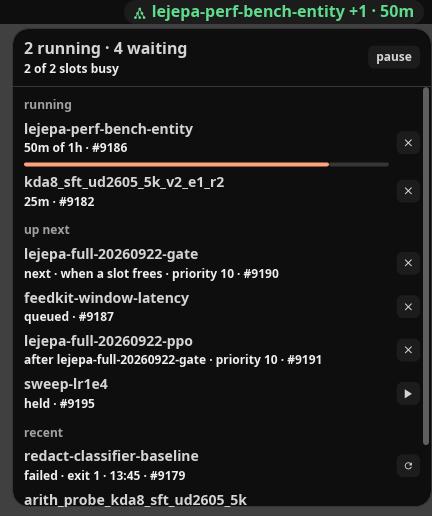
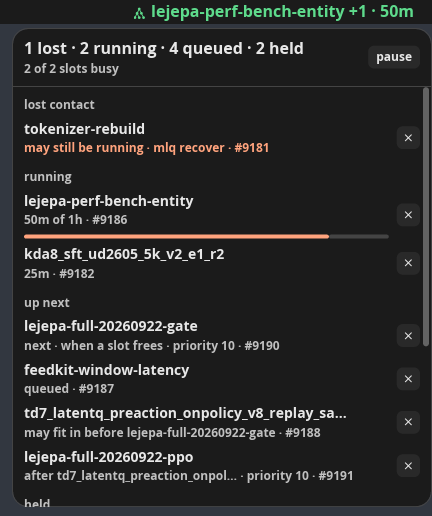
feat(mlq): separate held jobs and say what a lost run needs
Held jobs start only when released, so they get their own section and
header count instead of padding "up next" and the waiting total.

mlqd's needs_attention state was shown as "needs attention", which says
neither what went wrong nor what to do. It is now "lost contact": the row
says the run may still be alive and names mlq recover, in peach.

A cancelled waiting job says only that, and another job's name inside a
detail line is elided sooner so the line stays on one row.

diff --git a/src/bin/cosmicbar-mlq.rs b/src/bin/cosmicbar-mlq.rs
@@ -32,6 +32,9 @@ const NAME_LIMIT: usize = 26;
 /// A job's name in the popup. Longer than the cell's: the popup has the room,
 /// and two sweeps differing only in their last token are why the name exists.
 const ROW_NAME_LIMIT: usize = 44;
+/// Another job's name inside a detail line (`after sweep-lr1e4`), which also
+/// has to fit the job's own priority and id on one line.
+const REF_NAME_LIMIT: usize = 28;
 const REASON_LIMIT: usize = 48;
 const MIN_TICK_MS: i64 = 50;
 /// How long a cancel stays armed for the press that confirms it.
@@ -283,7 +286,7 @@ fn wait(job: &Value, names: &HashMap<i64, &str>) -> Wait {
     let named = |id: &i64| {
         names
             .get(id)
-            .map_or_else(|| format!("#{id}"), |name| elide(name, ROW_NAME_LIMIT))
+            .map_or_else(|| format!("#{id}"), |name| elide(name, REF_NAME_LIMIT))
     };
     let other = ids
         .first()
@@ -479,18 +482,22 @@ impl Extension {
     }
 
     /// What the queue is doing, and the verb for all of it.
-    fn header(&self, status: &Value, stuck: usize, running: usize, waiting: usize) -> Value {
+    ///
+    /// Held jobs are counted apart from queued ones: a held job starts only
+    /// when someone releases it, so it is not part of what is coming.
+    fn header(&self, status: &Value, [lost, running, queued, held]: [usize; 4]) -> Value {
         let paused = status["paused"].as_bool().unwrap_or(false);
-        let mut title = Vec::new();
-        if stuck > 0 {
-            title.push(format!("{stuck} stuck"));
-        }
-        if running > 0 {
-            title.push(format!("{running} running"));
-        }
-        if waiting > 0 {
-            title.push(format!("{waiting} waiting"));
-        }
+        let title: Vec<String> = [
+            // Short enough that all four counts still fit the title's one line.
+            (lost, "lost"),
+            (running, "running"),
+            (queued, "queued"),
+            (held, "held"),
+        ]
+        .into_iter()
+        .filter(|(count, _)| *count > 0)
+        .map(|(count, word)| format!("{count} {word}"))
+        .collect();
         let title = match title.is_empty() {
             true => "queue empty".to_owned(),
             false => title.join(" · "),
@@ -554,21 +561,32 @@ impl Extension {
     }
 
     fn waiting_row(&self, job: &Value, wait: &Wait) -> Value {
-        let mut detail = wait.text.clone();
-        if priority(job) != 0 {
-            detail.push_str(&format!(" · priority {}", priority(job)));
-        }
+        let mut detail = Vec::new();
         if job["cancelRequested"].as_bool().unwrap_or(false) {
-            detail.push_str(" · cancelling");
+            // What it was waiting for stopped mattering when it was cancelled.
+            detail.push("cancelling".to_owned());
+        } else {
+            // Under the `held` label the word would repeat on every row.
+            if wait.standing != Standing::Held {
+                detail.push(wait.text.clone());
+            }
+            if priority(job) != 0 {
+                detail.push(format!("priority {}", priority(job)));
+            }
         }
-        detail.push_str(&format!(" · #{}", job_id(job)));
+        detail.push(format!("#{}", job_id(job)));
         let action = match wait.standing {
             Standing::Held => {
                 json!({"id": format!("release:{}", job_id(job)), "glyph": ICON_RELEASE})
             }
             _ => self.cancel(job),
         };
-        row(elide(name(job), ROW_NAME_LIMIT), detail, None, Some(action))
+        row(
+            elide(name(job), ROW_NAME_LIMIT),
+            detail.join(" · "),
+            None,
+            Some(action),
+        )
     }
 
     fn recent_row(job: &Value, now: i64) -> Value {
@@ -620,7 +638,8 @@ impl Extension {
         active.sort_by_key(|job| std::cmp::Reverse(self.elapsed_ms(job, now)));
         // The order the scheduler will take them in, as far as the snapshot
         // says: the job it is draining for, then by priority and readiness,
-        // then what waits on others, then what is held.
+        // then what waits on others. Held jobs sort last and get a section
+        // of their own: nothing but a release will start them.
         waiting.sort_by_key(|(wait, job)| {
             (
                 wait.standing,
@@ -629,6 +648,8 @@ impl Extension {
                 job_id(job),
             )
         });
+        let queued = waiting.partition_point(|(wait, _)| wait.standing != Standing::Held);
+        let (upcoming, held) = waiting.split_at(queued);
         finished.sort_by_key(|(at, _)| std::cmp::Reverse(*at));
 
         let mut popup = Vec::new();
@@ -636,27 +657,32 @@ impl Extension {
             popup.push(json!({"text": {"text": error, "color": "red", "small": true}}));
         }
         if !attention.is_empty() {
-            popup.push(json!({"section": "needs attention"}));
+            // mlqd calls this `needs_attention`, which says neither what went
+            // wrong nor what to do: it lost the run's supervisor, cannot tell
+            // whether the command is still alive, and keeps its slot taken
+            // until `mlq recover` settles it.
+            popup.push(json!({"section": "lost contact"}));
             for job in &attention {
-                popup.push(row(
+                let mut item = row(
                     elide(name(job), ROW_NAME_LIMIT),
-                    format!("run mlq recover · #{}", job_id(job)),
+                    format!("may still be running · mlq recover · #{}", job_id(job)),
                     None,
                     Some(self.cancel(job)),
-                ));
+                );
+                // The one detail line that is a problem rather than a status.
+                item["row"]["lines"][1]["color"] = json!("peach");
+                popup.push(item);
             }
         }
         if !active.is_empty() {
             popup.push(json!({"section": "running"}));
             popup.extend(active.iter().map(|job| self.running_row(job, now)));
         }
-        if !waiting.is_empty() {
-            popup.push(json!({"section": "up next"}));
-            popup.extend(
-                waiting
-                    .iter()
-                    .map(|(wait, job)| self.waiting_row(job, wait)),
-            );
+        for (label, group) in [("up next", upcoming), ("held", held)] {
+            if !group.is_empty() {
+                popup.push(json!({"section": label}));
+                popup.extend(group.iter().map(|(wait, job)| self.waiting_row(job, wait)));
+            }
         }
         if !finished.is_empty() {
             popup.push(json!({"section": "recent"}));
@@ -670,7 +696,10 @@ impl Extension {
 
         json!({
             "cell": self.cell(status, now),
-            "header": self.header(status, attention.len(), active.len(), waiting.len()),
+            "header": self.header(
+                status,
+                [attention.len(), active.len(), upcoming.len(), held.len()],
+            ),
             "popup": popup,
         })
     }
@@ -1048,11 +1077,11 @@ mod tests {
             "jobs": [
                 {"id": 1, "name": "done", "state": "succeeded", "finishedAt": now - 1000},
                 {"id": 2, "name": "ancient", "state": "failed", "finishedAt": now - RECENT_WINDOW_MS - 1},
-                {"id": 3, "name": "held", "state": "held", "eligibility": "held"},
+                {"id": 3, "name": "parked", "state": "held", "eligibility": "held", "priority": 2},
                 {"id": 4, "name": "low", "state": "queued", "eligibility": "waiting_for_slot", "readySequence": 1},
                 {"id": 5, "name": "high", "state": "queued", "priority": 5, "eligibility": "waiting_for_slot", "readySequence": 2},
                 {"id": 6, "name": "train", "state": "running", "updatedAt": now - 60_000},
-                {"id": 7, "name": "stuck", "state": "needs_attention"},
+                {"id": 7, "name": "orphan", "state": "needs_attention"},
             ],
         });
         let mut extension = Extension {
@@ -1076,23 +1105,36 @@ mod tests {
         assert_eq!(
             order,
             [
-                "needs attention",
-                "stuck",
+                "lost contact",
+                "orphan",
                 "running",
                 "train",
                 "up next",
                 "high",
                 "low",
                 "held",
+                "parked",
                 "recent",
                 "done",
             ]
         );
         assert_eq!(
             frame["header"]["lines"][0]["text"],
-            "1 stuck · 1 running · 3 waiting"
+            "1 lost · 1 running · 2 queued · 1 held"
         );
+        let parked = &frame["popup"][8]["row"];
+        assert_eq!(parked["lines"][1]["text"], "priority 2 · #3");
+        assert_eq!(parked["action"]["id"], "release:3");
         assert_eq!(frame["header"]["lines"][1]["text"], "1 of 2 slots busy");
+    }
+
+    #[test]
+    fn a_cancelled_wait_says_only_that() {
+        let job = json!({"id": 4, "name": "low", "state": "queued", "priority": 3, "cancelRequested": true});
+        let wait = waiting_for("backfill_window_open: job 9190");
+        let row = Extension::default().waiting_row(&job, &wait);
+        assert_eq!(row["row"]["lines"][1]["text"], "cancelling · #4");
+        assert_eq!(row["row"]["action"]["enabled"], false);
     }
 
     #[test]

diff --git a/docs/extensions.md b/docs/extensions.md
@@ -151,18 +151,21 @@ It looks for `$XDG_RUNTIME_DIR/mlqueue/mlqd.sock`, falling back to
 No queue polling or external interpreter is involved.
 
 The cell shows the longest-running job and its elapsed time; an idle queue
-hides it. The popup's header counts running and waiting jobs over the slot use
+hides it. The popup's header counts running, queued and held jobs over the slot use
 or the reason nothing starts (paused, admission blocked), beside a pinned
 pause/resume button. Under it, sections list:
 
-- **needs attention**: jobs mlqd wants `mlq recover` for, counted as stuck in
-  the header.
+- **lost contact**: runs mlqd can no longer supervise (its `needs_attention`
+  state). The command may still be alive and its slot stays taken until
+  `mlq recover` settles it; the header counts these first.
 - **running**: longest first, with elapsed time and, for a job with a time
   limit, a meter that turns peach at 80%.
 - **up next**: in the order the scheduler will take them, each with what it
-  waits for in words (`next · when a slot frees`, `after <job>`, `held`) rather
-  than mlqd's eligibility code. A held job's button releases it rather than
-  cancelling it; `mlq cancel` still does that.
+  waits for in words (`next · when a slot frees`, `after <job>`) rather than
+  mlqd's eligibility code.
+- **held**: jobs that start only once released, kept apart from the ones that
+  are coming. A held job's button releases it rather than cancelling it;
+  `mlq cancel` still does that.
 - **recent**: the last three jobs finished in the past day, with their outcome
   (`failed · exit 1 · 13:08`); a failed or lost one can be retried.
 
